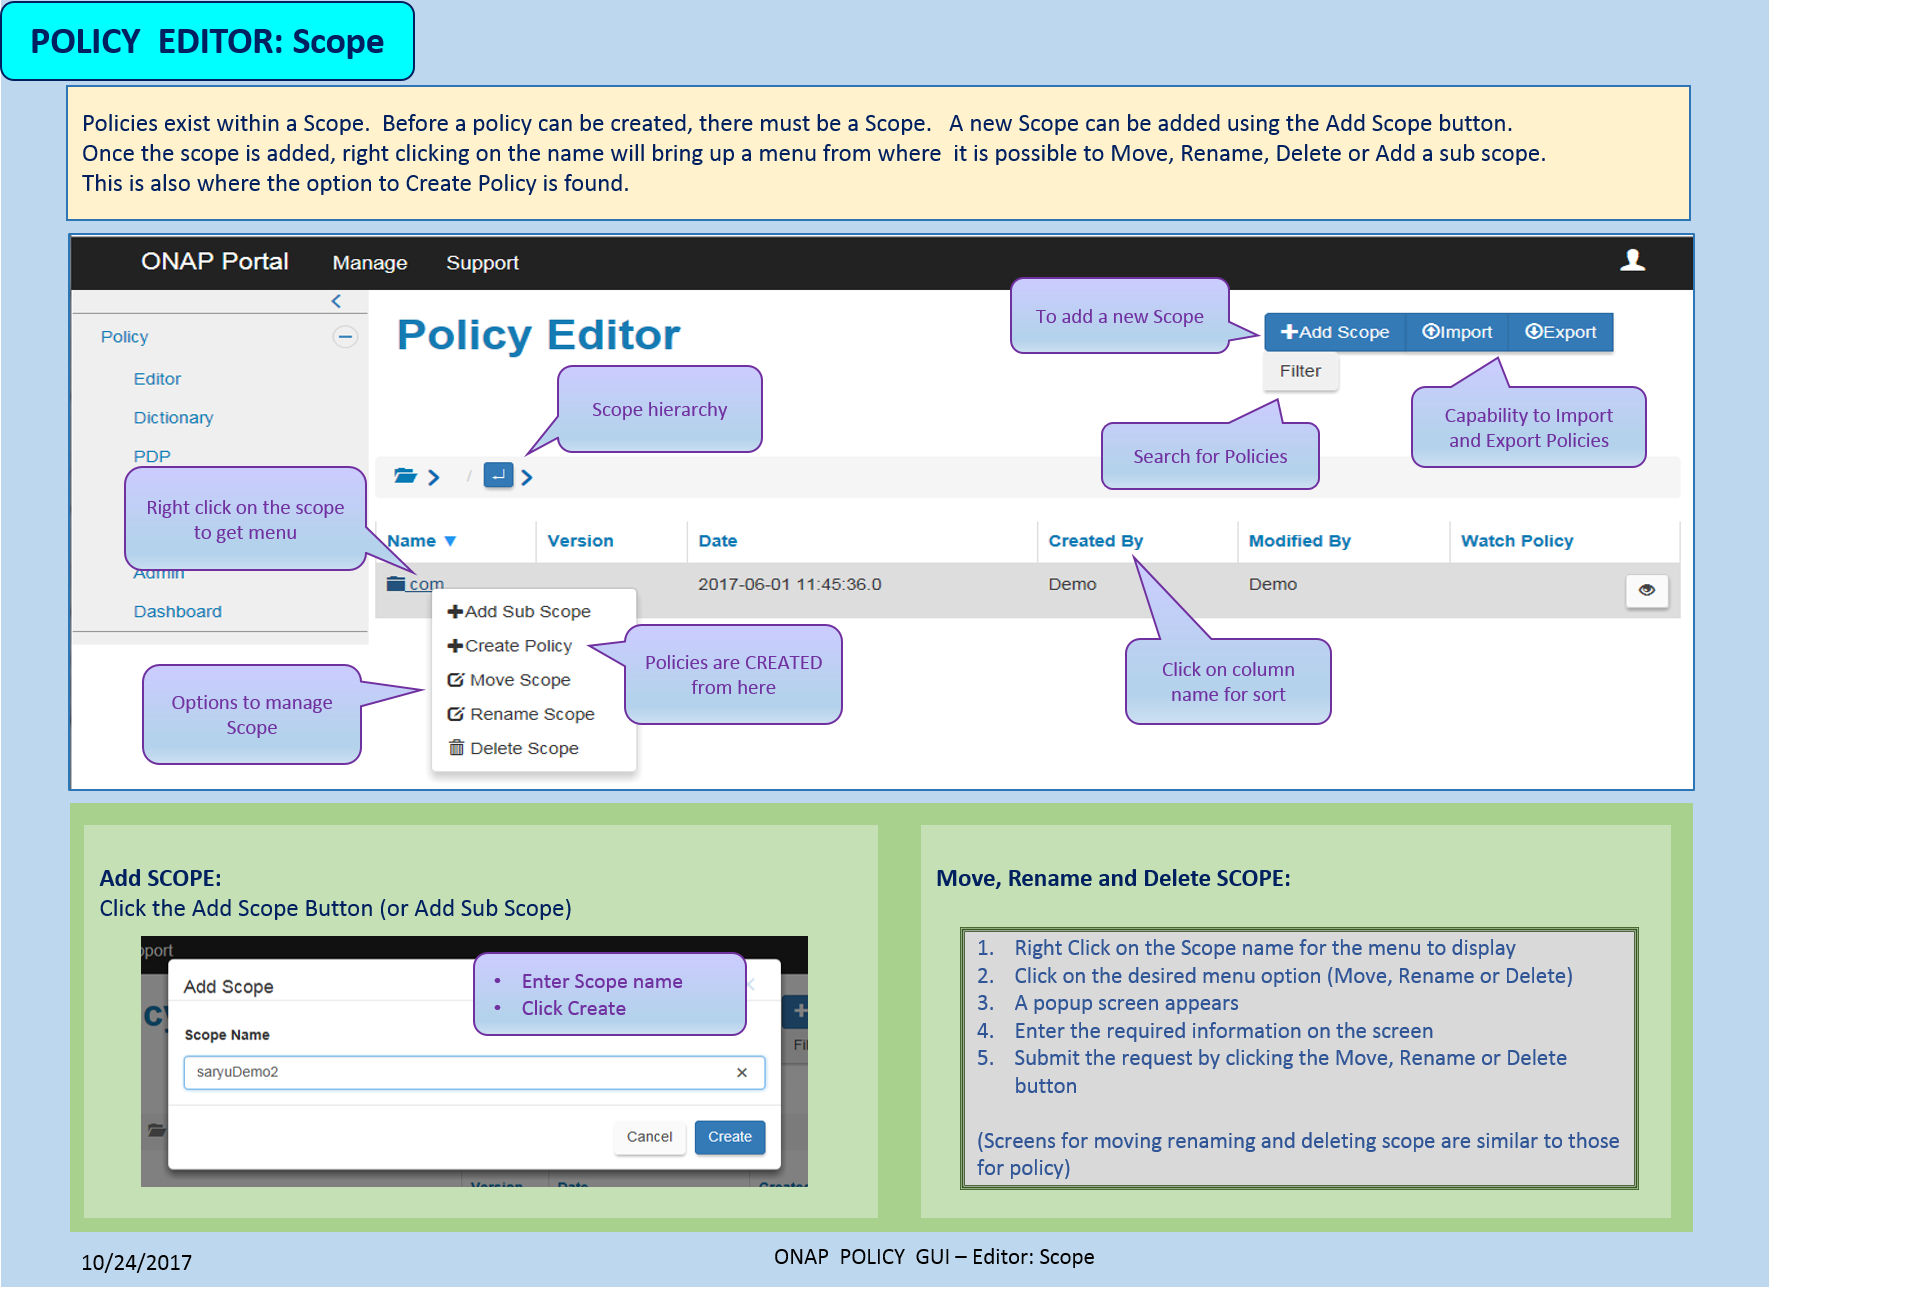
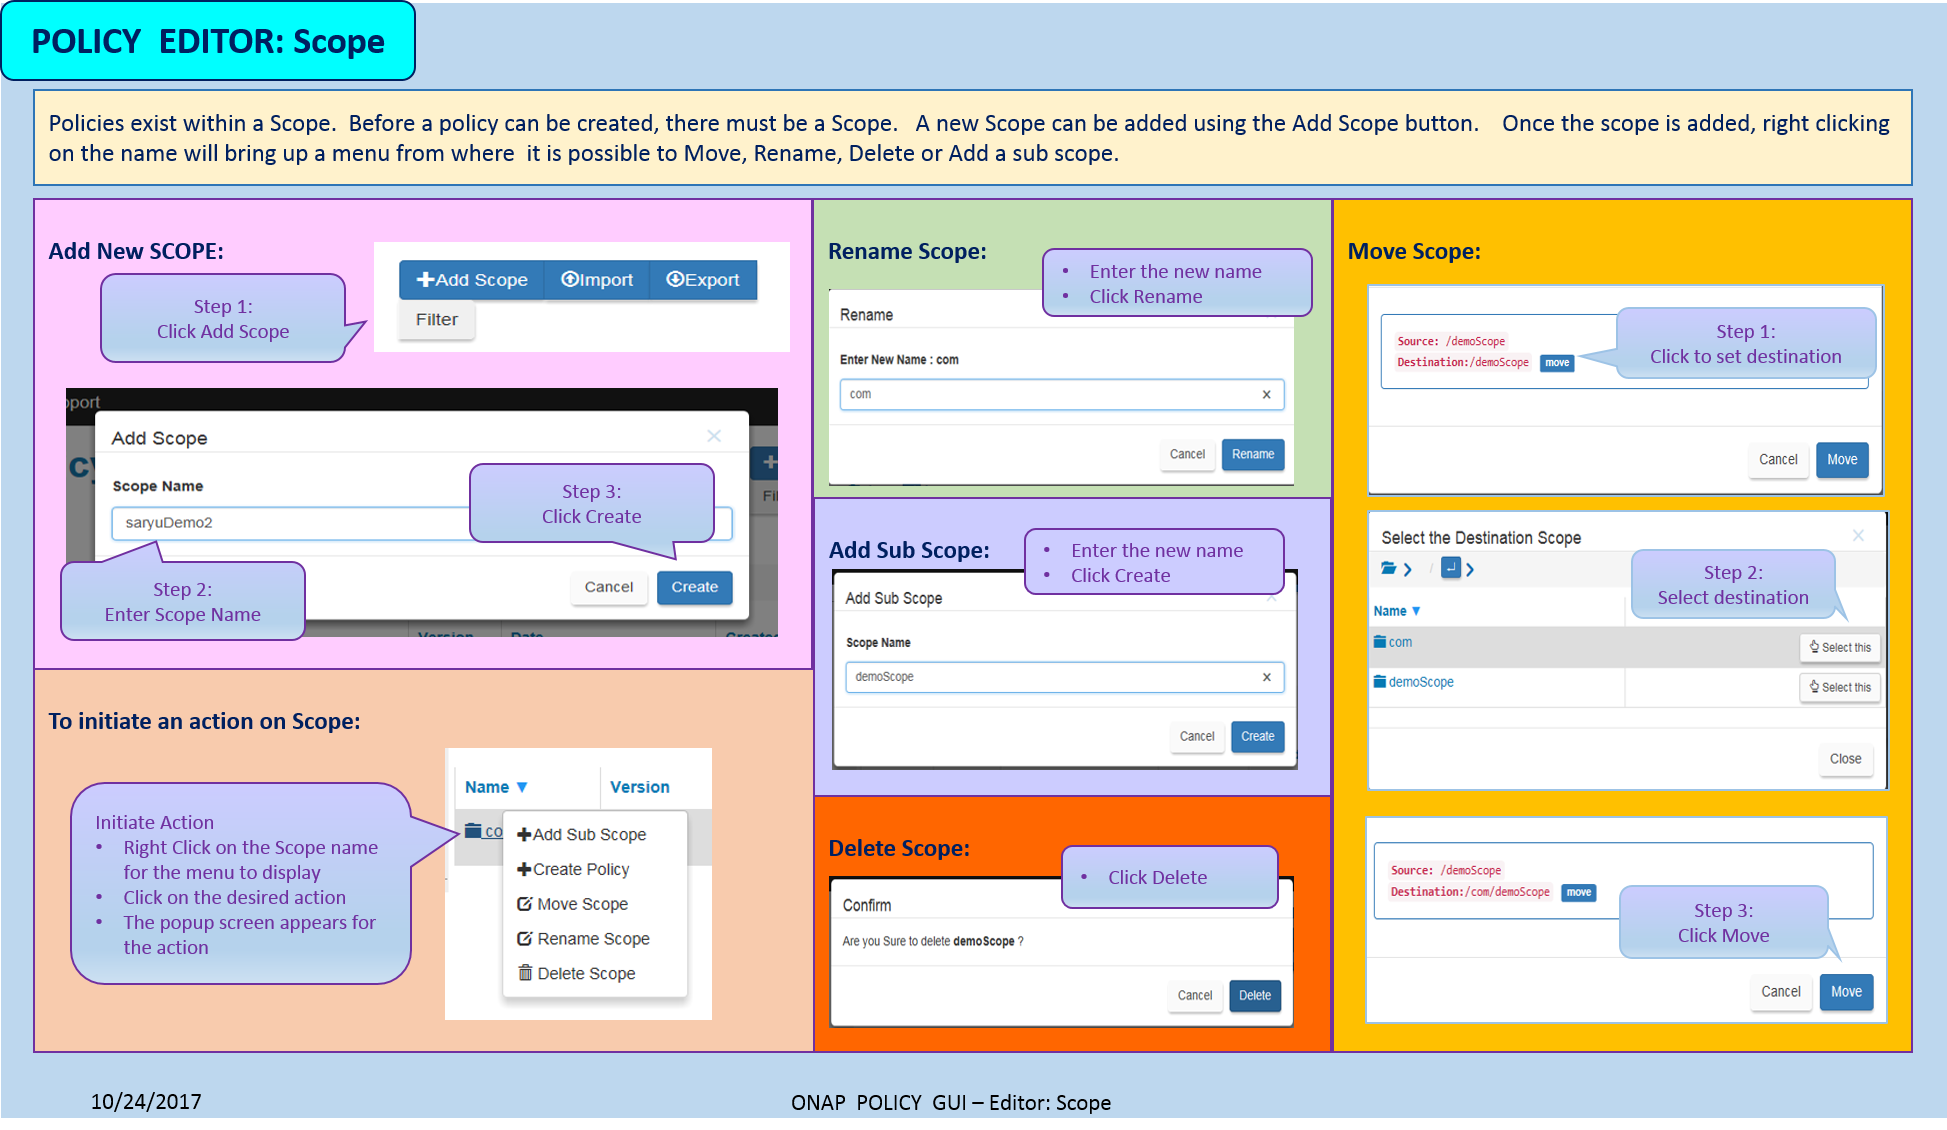
Update policy gui documentation
Update policy gui documentation
-------------------------------------------------------------

Issue-Id: POLICY-335

diff --git a/docs/platform/policygui.rst b/docs/platform/policygui.rst
@@ -37,11 +37,14 @@ The POLICY **Editor** tab supports the following **key** functionality:
 •	Export and Import Policies
 •	Search for Policies 
 
+.. image:: PolicyGUI_Editor.png
+
+|
 
 Scope
 -----
 
-This is the POLICY Editor landing page.  Existing Scopes and their associated policies are displayed.  The diagram below show the functionality available on the screen and also how to add and manage Scopes.
+A Scope must exist before a policy can be created.  The figure below shows how to add and manage Scopes.
 
 .. image:: PolicyGUI_Editor_Scope.png
 
